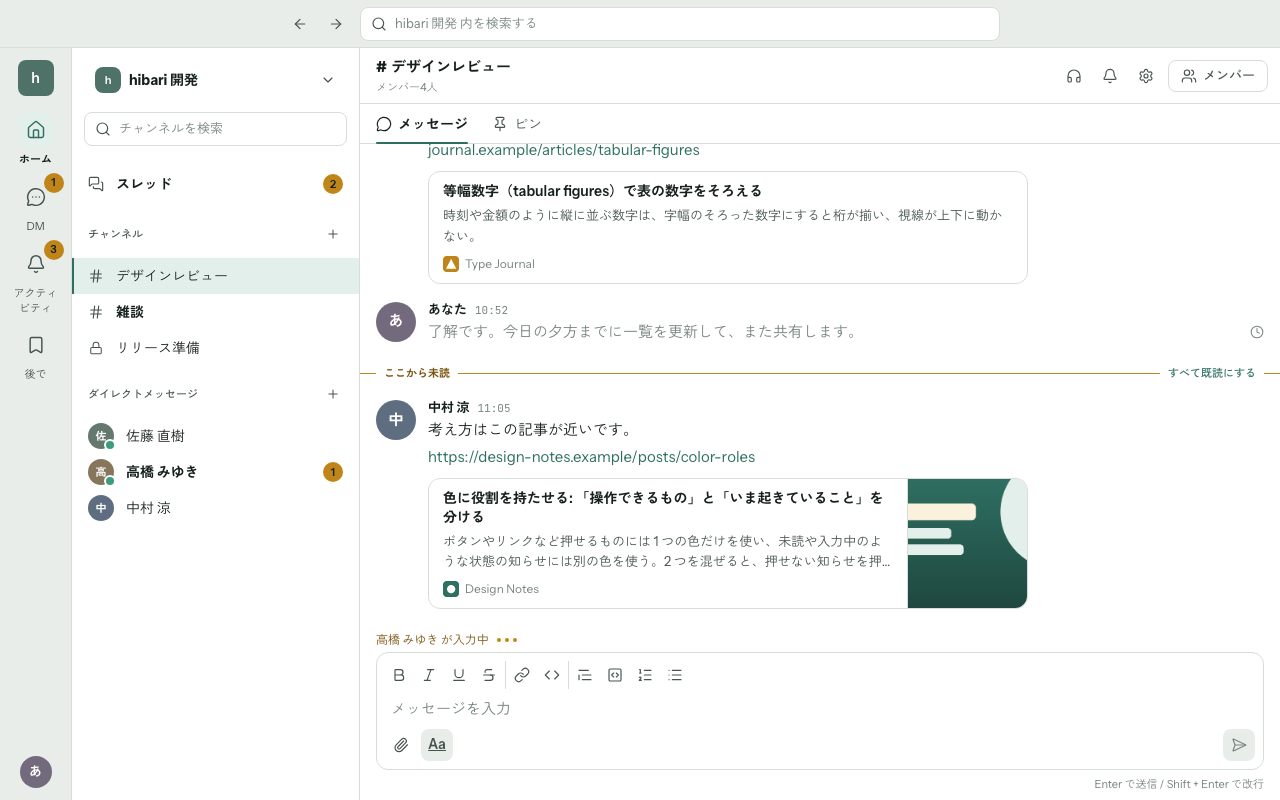
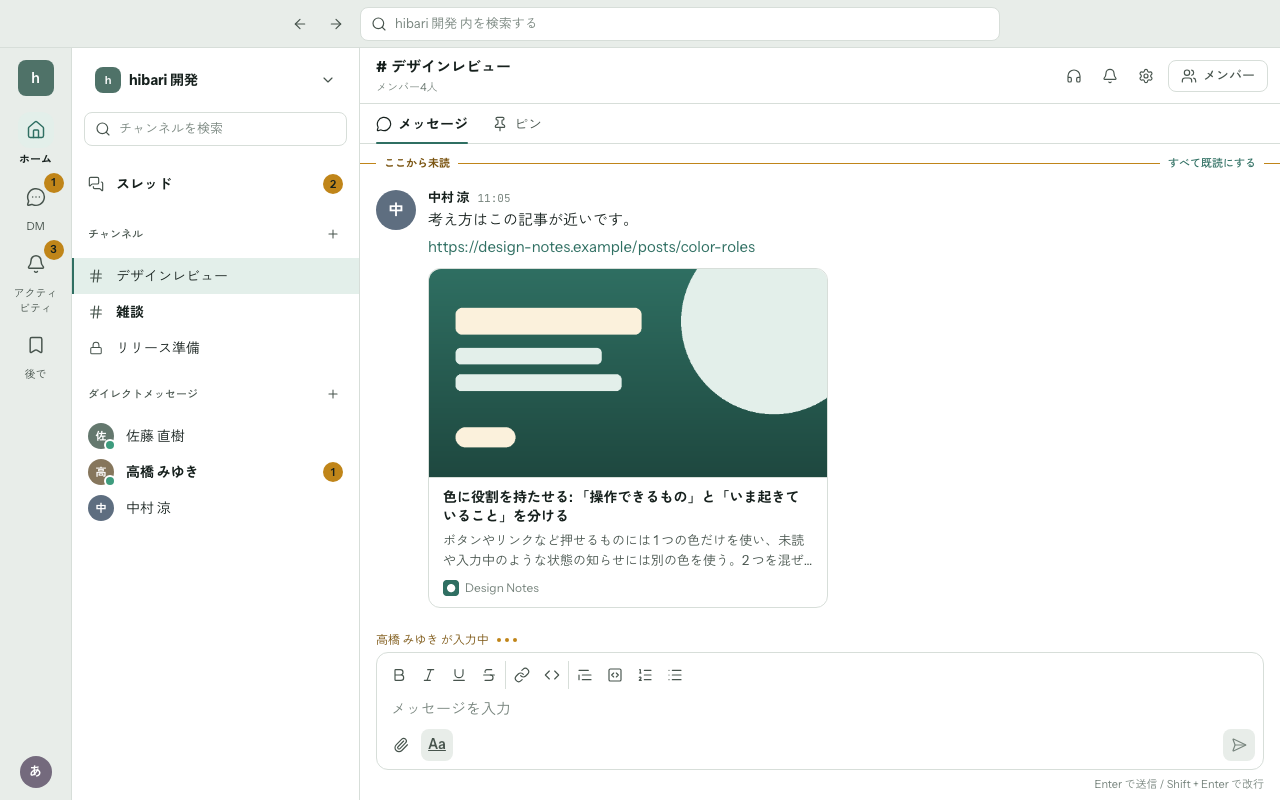
feat(web): 大きい横長の画像のリンクのプレビューは、画像を上に大きく出す
幅 400px 以上で幅 ÷ 高さが 1.5 以上の画像は、右のサムネイルでは左右が切れるので、カードの上に縦横比のまま出す（ADR 0065 の追記）。
このカードは幅 400px まで。あわせて、縦長の画像がサムネイルの枠を押し広げてカードが文字より高くなっていたのを直した。

Changed region(s): [[0.2812, 0.1875, 0.8125, 0.7812], [0.9375, 0.4375, 0.9688, 0.4688], [0.9375, 0.1875, 0.9688, 0.2188]]

diff --git a/web/components/chat/link-preview-card.tsx b/web/components/chat/link-preview-card.tsx
@@ -12,6 +12,7 @@ import type { ComposerLinkPreviewView, LinkPreviewView } from "./types";
  *
  * 形は Slack のカードに合わせる（オーナーが示した Slack の画面。ADR 0065 の背景）:
  * 左にタイトル・説明・サイトのアイコンと名前、右に画像のサムネイル。
+ * 大きい横長の画像（isLargeImage）は、右の枠では切れてしまうので、上に幅いっぱいで出し、その下に文字を並べる（ADR 0065 の追記）。
  *
  * 消せるのは投稿した本人だけなので、`onRemove` は本人のメッセージのときだけ渡す。
  * 確認のダイアログは出さず、押したらすぐ消す（ADR 0065 決定 5）。誤って押しにくいように、「x」はホバーかフォーカスのときだけ出す。
@@ -27,12 +28,31 @@ export function LinkPreviewCard({
   forceRemoveVisible?: boolean;
 }) {
   const heading = preview.title ?? preview.siteName;
+  const large = preview.image !== undefined && isLargeImage(preview.image);
 
   return (
     <article
       aria-label={`${heading} のプレビュー`}
-      className="group/preview relative flex w-150 max-w-full rounded-md border border-border bg-surface"
+      // 大きい画像のカードは幅を 400px までにする。600px のカードいっぱいでは、画像だけで画面の半分を占める（Slack の大きい画像も 400px 前後）
+      className={cx(
+        "group/preview relative flex max-w-full rounded-md border border-border bg-surface",
+        large ? "w-100 flex-col" : "w-150",
+      )}
     >
+      {large && preview.image && (
+        // 画像の縦横比のまま、切らずに出す。寸法はサーバーが測っているので、読み込む前から同じ高さの枠を取り、読み込みで画面をずらさない。
+        // 縦横比は画像ごとの値なので、トークンではなく style で渡す
+        <div
+          className="w-full overflow-hidden rounded-t-md border-b border-border bg-surface-muted"
+          style={{ aspectRatio: `${preview.image.width} / ${preview.image.height}` }}
+        >
+          {preview.image.url && (
+            // eslint-disable-next-line @next/next/no-img-element
+            <img src={preview.image.url} alt="" loading="lazy" className="size-full object-cover" />
+          )}
+        </div>
+      )}
+
       <div className="min-w-0 flex-1 px-3.5 py-2.5">
         {/* 本文に書かれた URL へ飛ぶ（リダイレクトの後の URL ではない。ADR 0065 決定 6）。
             Slack と同じく、タイトルは本文の色の太字にする。リンクであることは下線で示す */}
@@ -50,13 +70,14 @@ export function LinkPreviewCard({
         <SiteLine siteName={preview.siteName} hasIcon={preview.hasIcon} iconUrl={preview.iconUrl} className="mt-2" />
       </div>
 
-      {preview.image && (
+      {preview.image && !large && (
         // サムネイルはカードの高さに合わせて切り取る（Slack と同じ）。URL が取れるまでは枠だけ出し、読み込みでカードの高さを変えない
-        <div className="w-20 shrink-0 overflow-hidden rounded-r-md border-l border-border bg-surface-muted md:w-30">
+        // 画像は枠に重ねて置き（absolute）、カードの高さを決めさせない。縦長の画像でカードが文字より高くならないように
+        <div className="relative w-20 shrink-0 overflow-hidden rounded-r-md border-l border-border bg-surface-muted md:w-30">
           {preview.image.url && (
             // 署名付き URL は短時間で失効し、next/image の最適化（サーバー経由の取得）も使えないので img を使う（添付と同じ）
             // eslint-disable-next-line @next/next/no-img-element
-            <img src={preview.image.url} alt="" loading="lazy" className="size-full object-cover" />
+            <img src={preview.image.url} alt="" loading="lazy" className="absolute inset-0 size-full object-cover" />
           )}
         </div>
       )}
@@ -80,6 +101,19 @@ export function LinkPreviewCard({
       )}
     </article>
   );
+}
+
+/** この幅（px）以上の画像を大きく出す候補にする。小さい画像を引き伸ばすとぼやけるため。 */
+export const LARGE_IMAGE_MIN_WIDTH = 400;
+/** 幅 ÷ 高さがこれ以上の横長の画像を大きく出す。正方形に近いロゴは、右のサムネイルで切れずに収まる。 */
+export const LARGE_IMAGE_MIN_RATIO = 1.5;
+
+/**
+ * 画像を上に大きく出すか（ADR 0065 の追記）。OGP の標準の画像（1200×630）は大きく出る。
+ * 横長の画像を右のサムネイル（縦長の枠）に入れると、左右が切れて何の画像か分からなくなるため。
+ */
+export function isLargeImage({ width, height }: { width: number; height: number }): boolean {
+  return width >= LARGE_IMAGE_MIN_WIDTH && height > 0 && width / height >= LARGE_IMAGE_MIN_RATIO;
 }
 
 /**

diff --git a/web/components/chat/link-preview-card.test.tsx b/web/components/chat/link-preview-card.test.tsx
@@ -2,7 +2,7 @@ import { render, screen, within } from "@testing-library/react";
 import userEvent from "@testing-library/user-event";
 import { describe, expect, it, vi } from "vitest";
 
-import { ComposerLinkPreview, LinkPreviewCard } from "./link-preview-card";
+import { ComposerLinkPreview, LinkPreviewCard, isLargeImage } from "./link-preview-card";
 import type { LinkPreviewView } from "./types";
 
 function preview(overrides: Partial<LinkPreviewView> = {}): LinkPreviewView {
@@ -36,7 +36,32 @@ describe("LinkPreviewCard", () => {
     const { container } = render(<LinkPreviewCard preview={preview()} />);
 
     const srcs = Array.from(container.querySelectorAll("img")).map((img) => img.getAttribute("src"));
-    expect(srcs).toEqual(["https://storage.example/lp/icon", "https://storage.example/lp/image"]);
+    // 横長の画像は上に出るので、画像が先
+    expect(srcs).toEqual(["https://storage.example/lp/image", "https://storage.example/lp/icon"]);
+  });
+
+  // ADR 0065 の追記: 横長の画像は右の枠では左右が切れるので、上に幅いっぱいで出す
+  it("大きい横長の画像は、文字の上に縦横比のまま出す", () => {
+    const { container } = render(<LinkPreviewCard preview={preview()} />);
+
+    const card = screen.getByRole("article");
+    expect(card).toHaveClass("flex-col");
+    const frame = container.querySelector("img")!.parentElement!;
+    expect(frame.style.aspectRatio).toBe("1200 / 630");
+    // 画像の枠は文字（タイトル）より前にある
+    expect(frame.compareDocumentPosition(within(card).getByRole("link")) & Node.DOCUMENT_POSITION_FOLLOWING).toBeTruthy();
+  });
+
+  it("横長ではない・小さい画像は、右のサムネイルに出す", () => {
+    for (const image of [
+      { width: 800, height: 1200 },
+      { width: 300, height: 157 },
+    ]) {
+      const { container, unmount } = render(<LinkPreviewCard preview={preview({ image: { ...image, url: "https://storage.example/lp/image" } })} />);
+      expect(screen.getByRole("article")).not.toHaveClass("flex-col");
+      expect(container.querySelector("img[src='https://storage.example/lp/image']")!.parentElement!.style.aspectRatio).toBe("");
+      unmount();
+    }
   });
 
   it("画像とアイコンの URL が取れるまでは、画像を読みに行かない", () => {
@@ -110,5 +135,19 @@ describe("ComposerLinkPreview", () => {
     await userEvent.click(screen.getByRole("button", { name: "プレビューを削除" }));
 
     expect(onRemove).toHaveBeenCalledWith("https://example.com/post/1");
+  });
+});
+
+describe("isLargeImage（ADR 0065 の追記）", () => {
+  it.each([
+    [{ width: 1200, height: 630 }, true],
+    [{ width: 1280, height: 720 }, true],
+    [{ width: 400, height: 266 }, true],
+    [{ width: 399, height: 200 }, false],
+    [{ width: 1200, height: 1200 }, false],
+    [{ width: 800, height: 1200 }, false],
+    [{ width: 1200, height: 900 }, false],
+  ])("%j → %s（幅 400px 以上で、幅 ÷ 高さが 1.5 以上）", (image, want) => {
+    expect(isLargeImage(image)).toBe(want);
   });
 });

diff --git a/web/stories/fixtures/link-previews.ts b/web/stories/fixtures/link-previews.ts
@@ -11,7 +11,7 @@ import { naoki } from "./users";
  * 寸法は実物と同じ値を入れてあるので、枠は読み込み前から正しい大きさになる。
  */
 
-/** 画像・アイコン・説明がそろったカード。説明は 2 行で切れる長さにしてある。 */
+/** 画像・アイコン・説明がそろったカード。画像は OGP の標準の横長（1200×630）なので、上に大きく出る。説明は 2 行で切れる長さにしてある。 */
 export const fullPreview: LinkPreviewView = {
   id: "lp-1",
   url: "https://design-notes.example/posts/color-roles",
@@ -22,6 +22,18 @@ export const fullPreview: LinkPreviewView = {
   image: { width: 1200, height: 630, url: "/dev/ogp-1.png" },
   hasIcon: true,
   iconUrl: "/dev/site-icon-1.png",
+};
+
+/** 横長ではない画像のカード。右のサムネイルに出る（ADR 0065 の追記）。 */
+export const thumbnailPreview: LinkPreviewView = {
+  id: "lp-5",
+  url: "https://photo-walk.example/2026/09/morning-light",
+  siteName: "Photo Walk",
+  title: "朝の光で撮る: 窓辺の縦の構図",
+  description: "縦に長い窓は、縦の構図で撮ると光の入り方がよく分かる。露出は窓の外に合わせて、室内は少し暗く残す。",
+  image: { width: 800, height: 1200, url: "/dev/photo-4.png" },
+  hasIcon: true,
+  iconUrl: "/dev/site-icon-2.png",
 };
 
 /** 画像のないカード（OGP に画像のないページ）。 */
@@ -73,6 +85,13 @@ export const timelineWithLinkPreviews: TimelineItem[] = timeline.map((item) => {
       return item;
   }
 });
+
+/** サムネイルのカードのあるタイムライン（chat/link/link-preview-thumbnail.png）。いちばん下のカードを差し替える。 */
+export const timelineWithThumbnailPreview: TimelineItem[] = timelineWithLinkPreviews.map((item) =>
+  item.type === "message" && item.message.key === "m-1105"
+    ? withPreview(item.message, `朝の写真はこの記事を参考にしました。\n${thumbnailPreview.url}`, thumbnailPreview)
+    : item,
+);
 
 /** 本人（あなた）のプレビューのあるメッセージの key。「x」を出す画面で使う。 */
 export const myLinkPreviewKey = myMessageKey;

diff --git a/web/stories/screens/chat.tsx b/web/stories/screens/chat.tsx
@@ -68,6 +68,7 @@ import {
   myLinkPreviewKey,
   timelineWithLinkPreviews,
   timelineWithMyLinkPreview,
+  timelineWithThumbnailPreview,
 } from "@/stories/fixtures/link-previews";
 import { timelineWithLinkCards } from "@/stories/fixtures/links";
 import { pinCandidateKey, pinnedMessageKey, pinnedMessages, timelineWithPins } from "@/stories/fixtures/pins";
@@ -195,7 +196,7 @@ export type ChatOptions = {
    * - timeline: 画像つき・画像なし・いちばん小さいカード
    * - remove: 本人のカードにポインタを乗せて「x」が出たところ
    */
-  linkPreviews?: "timeline" | "remove";
+  linkPreviews?: "timeline" | "remove" | "thumbnail";
   /**
    * リッチテキストの入力欄（ADR 0052）。
    * - formatted: 書式とメンションのチップを入れた下書き
@@ -501,7 +502,11 @@ export function chat({
       : linkCards
       ? timelineWithLinkCards
       : linkPreviews
-      ? linkPreviews === "remove" ? timelineWithMyLinkPreview : timelineWithLinkPreviews
+      ? linkPreviews === "remove"
+        ? timelineWithMyLinkPreview
+        : linkPreviews === "thumbnail"
+          ? timelineWithThumbnailPreview
+          : timelineWithLinkPreviews
       : formatting
       ? timelineWithFormatting
       : jump

diff --git a/web/components/chat/link-preview-card.stories.tsx b/web/components/chat/link-preview-card.stories.tsx
@@ -1,6 +1,6 @@
 import type { Meta, StoryObj } from "@storybook/nextjs-vite";
 
-import { fullPreview, minimalPreview, textOnlyPreview } from "@/stories/fixtures/link-previews";
+import { fullPreview, minimalPreview, textOnlyPreview, thumbnailPreview } from "@/stories/fixtures/link-previews";
 
 import { LinkPreviewCard } from "./link-preview-card";
 
@@ -21,7 +21,9 @@ export default meta;
 
 type Story = StoryObj<typeof meta>;
 
-export const Full: Story = { name: "画像・アイコン・説明あり" };
+export const Full: Story = { name: "画像・アイコン・説明あり（横長の画像は上に大きく）" };
+
+export const Thumbnail: Story = { name: "横長ではない画像（右のサムネイル）", args: { preview: thumbnailPreview } };
 
 export const TextOnly: Story = { name: "画像なし", args: { preview: textOnlyPreview } };
 

diff --git a/web/stories/chat/link.stories.tsx b/web/stories/chat/link.stories.tsx
@@ -97,6 +97,13 @@ export const LinkPreviewDark: Story = {
   render: () => chat({ linkPreviews: "timeline" }),
 };
 
+/** 横長ではない画像は、右のサムネイルに出す（ADR 0065 の追記）。 */
+export const LinkPreviewThumbnail: Story = {
+  name: "外部のリンクのプレビュー: 横長ではない画像（サムネイル）",
+  tags: ["since:6.17"],
+  render: () => chat({ linkPreviews: "thumbnail" }),
+};
+
 export const LinkPreviewRemove: Story = {
   name: "外部のリンクのプレビュー: 本人の「x」",
   tags: ["since:6.17"],

diff --git a/docs/adr/0065-link-previews.md b/docs/adr/0065-link-previews.md
@@ -211,9 +211,19 @@ URL は本文の一部なので、**ログに URL もホスト名も出さない
 
 **追記（2026-09-25、構築順 2 のデザイン）**: 描いてみて決めたこと（`docs/ui/README.md` の「Phase 6.17 で足した画面」）。
 
-- **画像はいつも右のサムネイルにする。** 大きい画像を下に大きく出す形は作らない。オーナーが示した Slack の画面が、横長の OGP 画像でもサムネイルだったため。
+- ~~**画像はいつも右のサムネイルにする。** 大きい画像を下に大きく出す形は作らない。オーナーが示した Slack の画面が、横長の OGP 画像でもサムネイルだったため。~~ → 下の追記で改めた。
 - **並びは、添付とパーマリンクのカードの下**にする（上の「添付の上」を改める）。本文から出てくるカードどうしを続けて並べる。
 - 本人の「x」は、Slack と同じくカードの左の外側に出す。
+
+**追記（2026-09-26、大きい画像の出し分け）**: 使ってみると、横長のロゴの画像が右のサムネイルで左右を切られて読めなかった（オーナーの指摘）。上の「いつもサムネイル」を改める。
+
+- **幅 400px 以上で、幅 ÷ 高さが 1.5 以上の画像は、カードの上に幅いっぱいで出す。** その下にタイトル・説明・サイト名を並べる。OGP の標準の画像（1200×630）はこちらになる。
+  - 画像は縦横比のまま切らずに出す。寸法（決定 6）で読み込む前から同じ高さの枠を取るので、読み込みで画面がずれない。
+  - このカードは幅 400px までにする。600px いっぱいでは、画像だけで画面の半分を占める。
+  - Slack は大きい画像を文字の下に置くが、オーナーの要望で上にした。
+- それ以外（正方形に近い・縦長・小さい画像）は、これまでどおり右のサムネイルにする。小さい画像を引き伸ばすとぼやけ、正方形のロゴは右の枠で切れずに収まる。
+- 判定は寸法だけで決まるので、Web だけで行う（サーバーと DB は変えない）。サイト側の `twitter:card`（`summary_large_image`）は取っていないので使わない。
+- あわせて、縦長の画像が右のサムネイルの枠を押し広げ、カードが文字より高くなっていたのを直した（画像を枠に重ねて置き、カードの高さを決めさせない）。
 
 ### 13. 入力欄のプレビュー（送る前にカードを見せて、そこで消せる）
 
